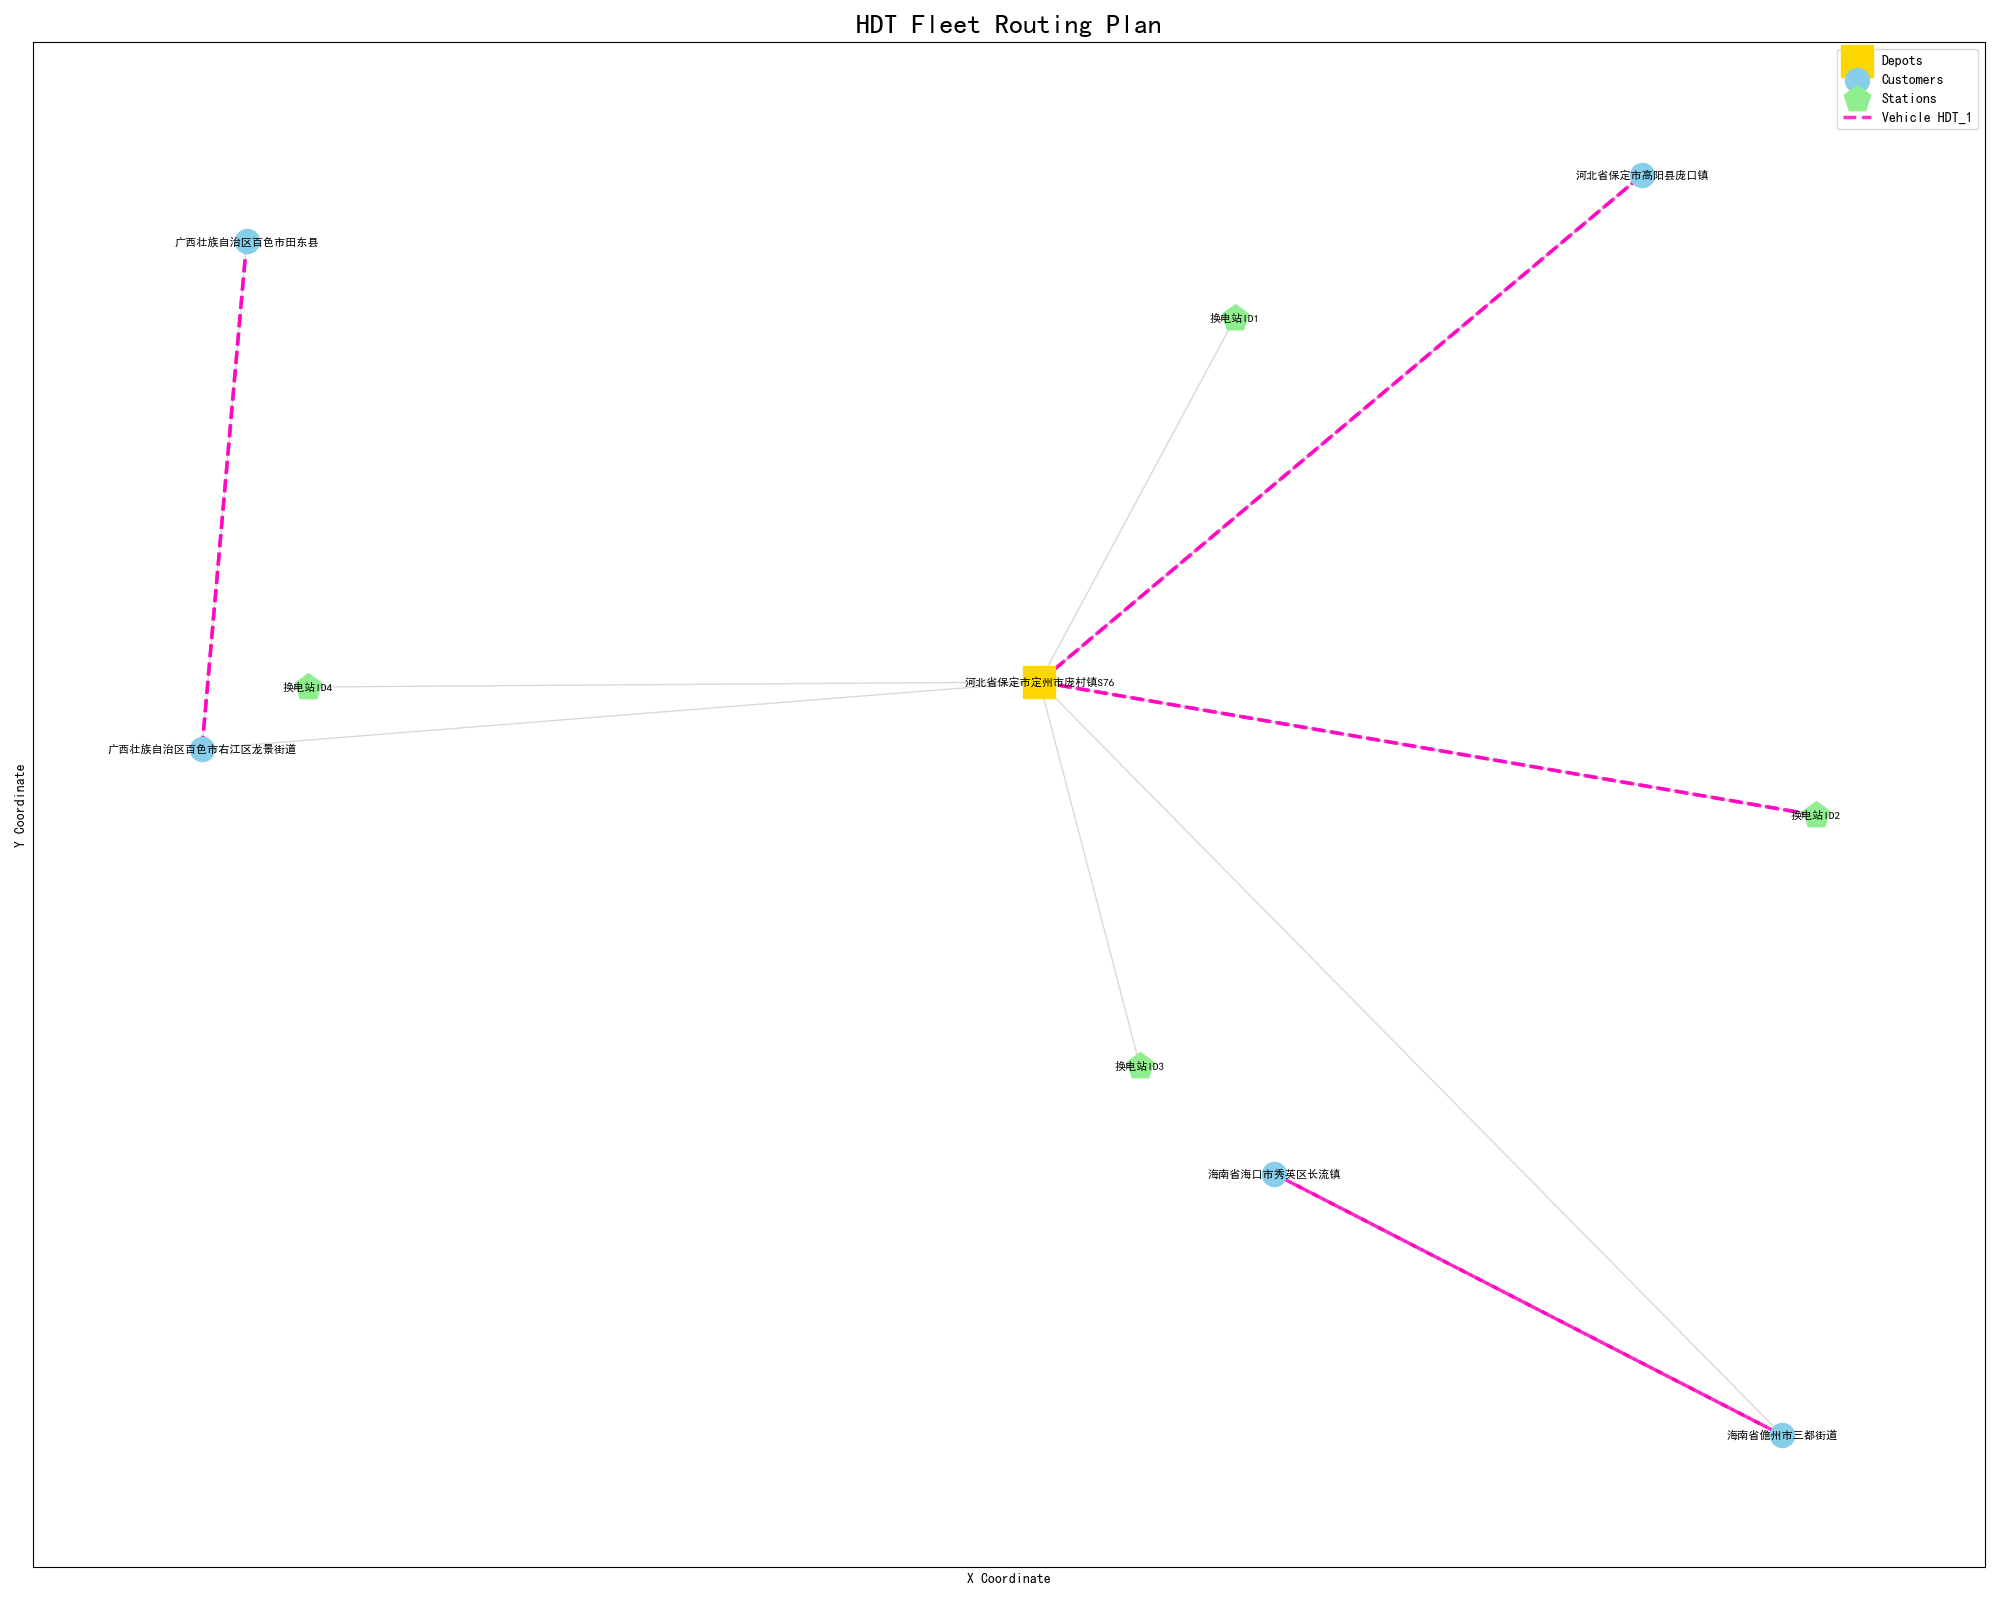
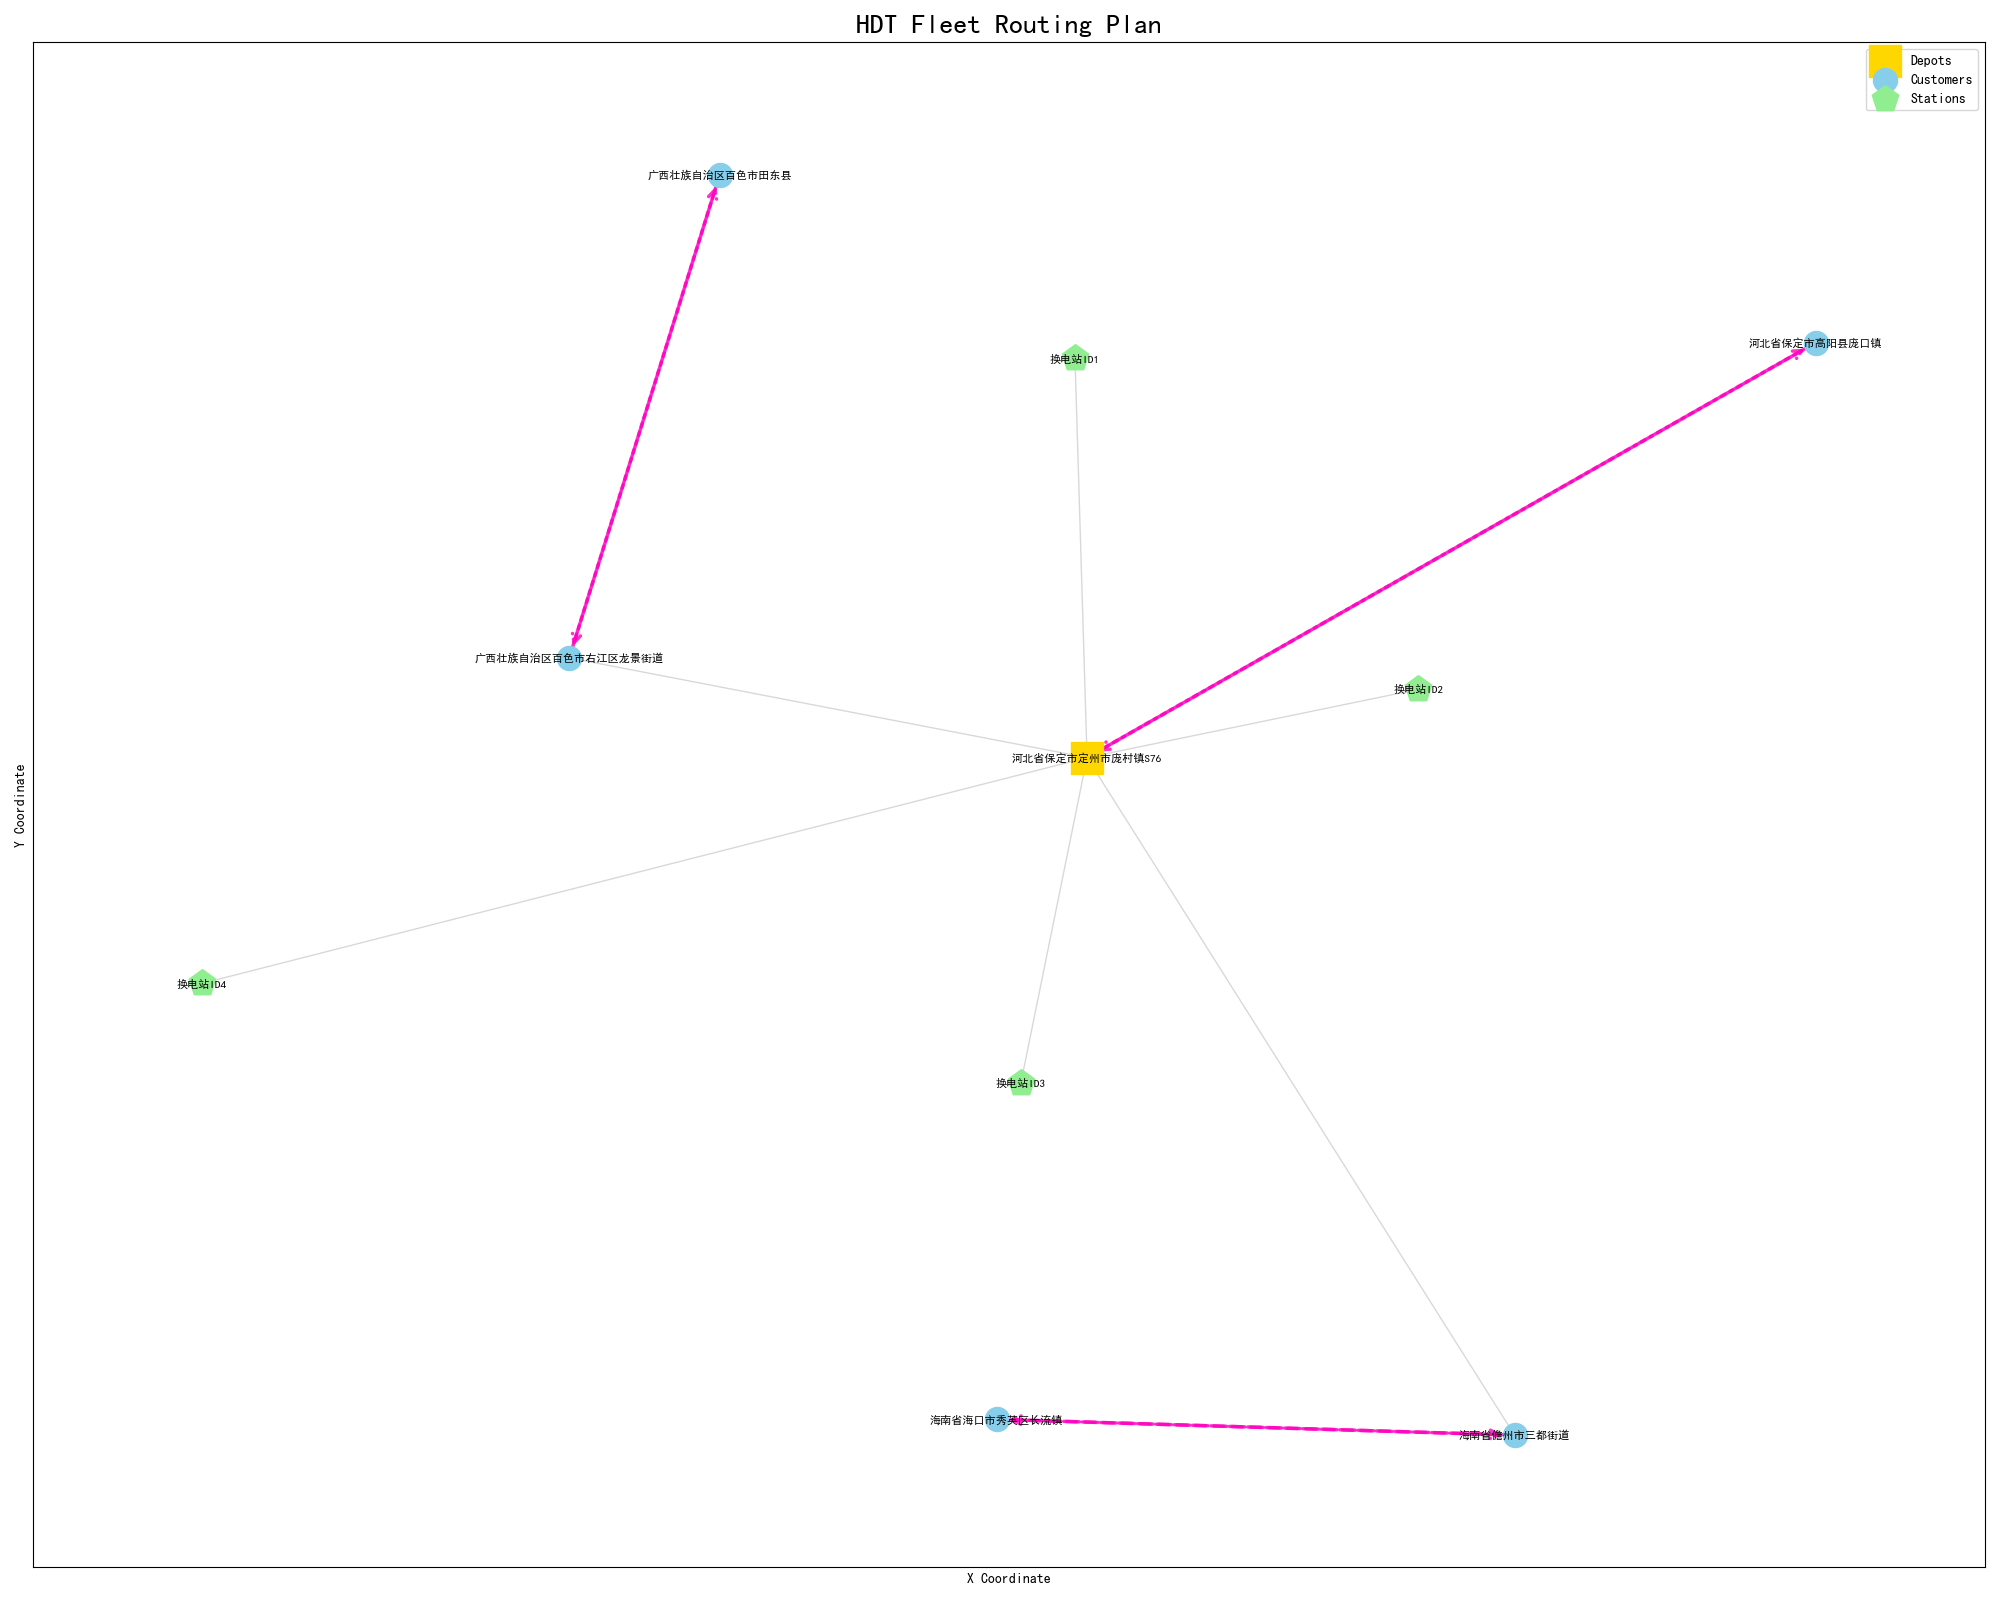
版本更新

diff --git a/HDT_Swapping_Optimization-0715/HDT_Swapping_Optimization/src/analysis/post_analysis.py b/HDT_Swapping_Optimization-0715/HDT_Swapping_Optimization/src/analysis/post_analysis.py
@@ -66,8 +66,19 @@ def plot_road_network_with_routes(model, data, filename="hdt_routing_plan.png"):
                     path_nodes = data['path_matrix'].loc[i, j]
                     if path_nodes and len(path_nodes) > 1:
                         path_edges = list(zip(path_nodes[:-1], path_nodes[1:]))
-                        nx.draw_networkx_edges(G, pos, edgelist=path_edges, edge_color=color, width=2.5, style='dashed',
-                                               alpha=0.8, label=f'Vehicle {k}')
+                        nx.draw_networkx_edges(
+                            G,
+                            pos,
+                            edgelist=path_edges,
+                            edge_color=color,
+                            width=2.5,
+                            style='dashed',
+                            alpha=0.8,
+                            arrows=True,
+                            arrowstyle='->',
+                            arrowsize=15,
+                            label=f'Vehicle {k}'
+                        )
 
     plt.title("HDT Fleet Routing Plan", fontsize=20)
     plt.xlabel("X Coordinate")
@@ -146,6 +157,28 @@ def plot_station_energy_schedule(model, data):
             else:
                 print(f"车辆 {k} 未进行换电")
         print("===================================\n")
+
+        def print_vehicle_routes(model, data):
+            """按顺序打印每辆车的行驶路线(节点序列)"""
+            print("\n========== 车辆行驶路线 ==========")
+            for k in model.VEHICLES:
+                depot = data['vehicles'][k]['depot_id']
+                route = [depot]
+                current = depot
+                visited = set([depot])
+                while True:
+                    next_nodes = [j for j in model.LOCATIONS if
+                                  current != j and safe_value(model.x[current, j, k]) > 0.5]
+                    if not next_nodes:
+                        break
+                    next_node = next_nodes[0]
+                    route.append(next_node)
+                    visited.add(next_node)
+                    current = next_node
+                    if current == depot:
+                        break
+                print(f"车辆 {k}: {' -> '.join(route)}")
+            print("===================================\n")
 
     def plot_hdt_metrics(model, data):
         """为每辆车绘制电量/载重/耗电率三坐标图"""

diff --git a/HDT_Swapping_Optimization-0715/HDT_Swapping_Optimization/main_two_stage.py b/HDT_Swapping_Optimization-0715/HDT_Swapping_Optimization/main_two_stage.py
@@ -128,6 +128,8 @@ def main():
         print(f"最终总成本: {value(final_model.objective):.2f}")
         try:
             post_analysis.plot_road_network_with_routes(final_model, model_data)
+            post_analysis.print_vehicle_swap_nodes(final_model)
+            post_analysis.print_vehicle_routes(final_model, model_data)
             post_analysis.plot_station_energy_schedule(final_model, model_data)
             print("所有图表已成功生成并保存到 'results' 文件夹。")
         except Exception as e:

diff --git a/HDT_Swapping_Optimization-0715/HDT_Swapping_Optimization/main.py b/HDT_Swapping_Optimization-0715/HDT_Swapping_Optimization/main.py
@@ -74,6 +74,7 @@ def main():
         try:
             post_analysis.print_task_assignments(model, model_data)
             post_analysis.print_vehicle_swap_nodes(model)
+            post_analysis.print_vehicle_routes(model, model_data)
             post_analysis.plot_road_network_with_routes(model, model_data)
             post_analysis.plot_station_energy_schedule(model, model_data)
             post_analysis.plot_hdt_metrics(model, model_data)
